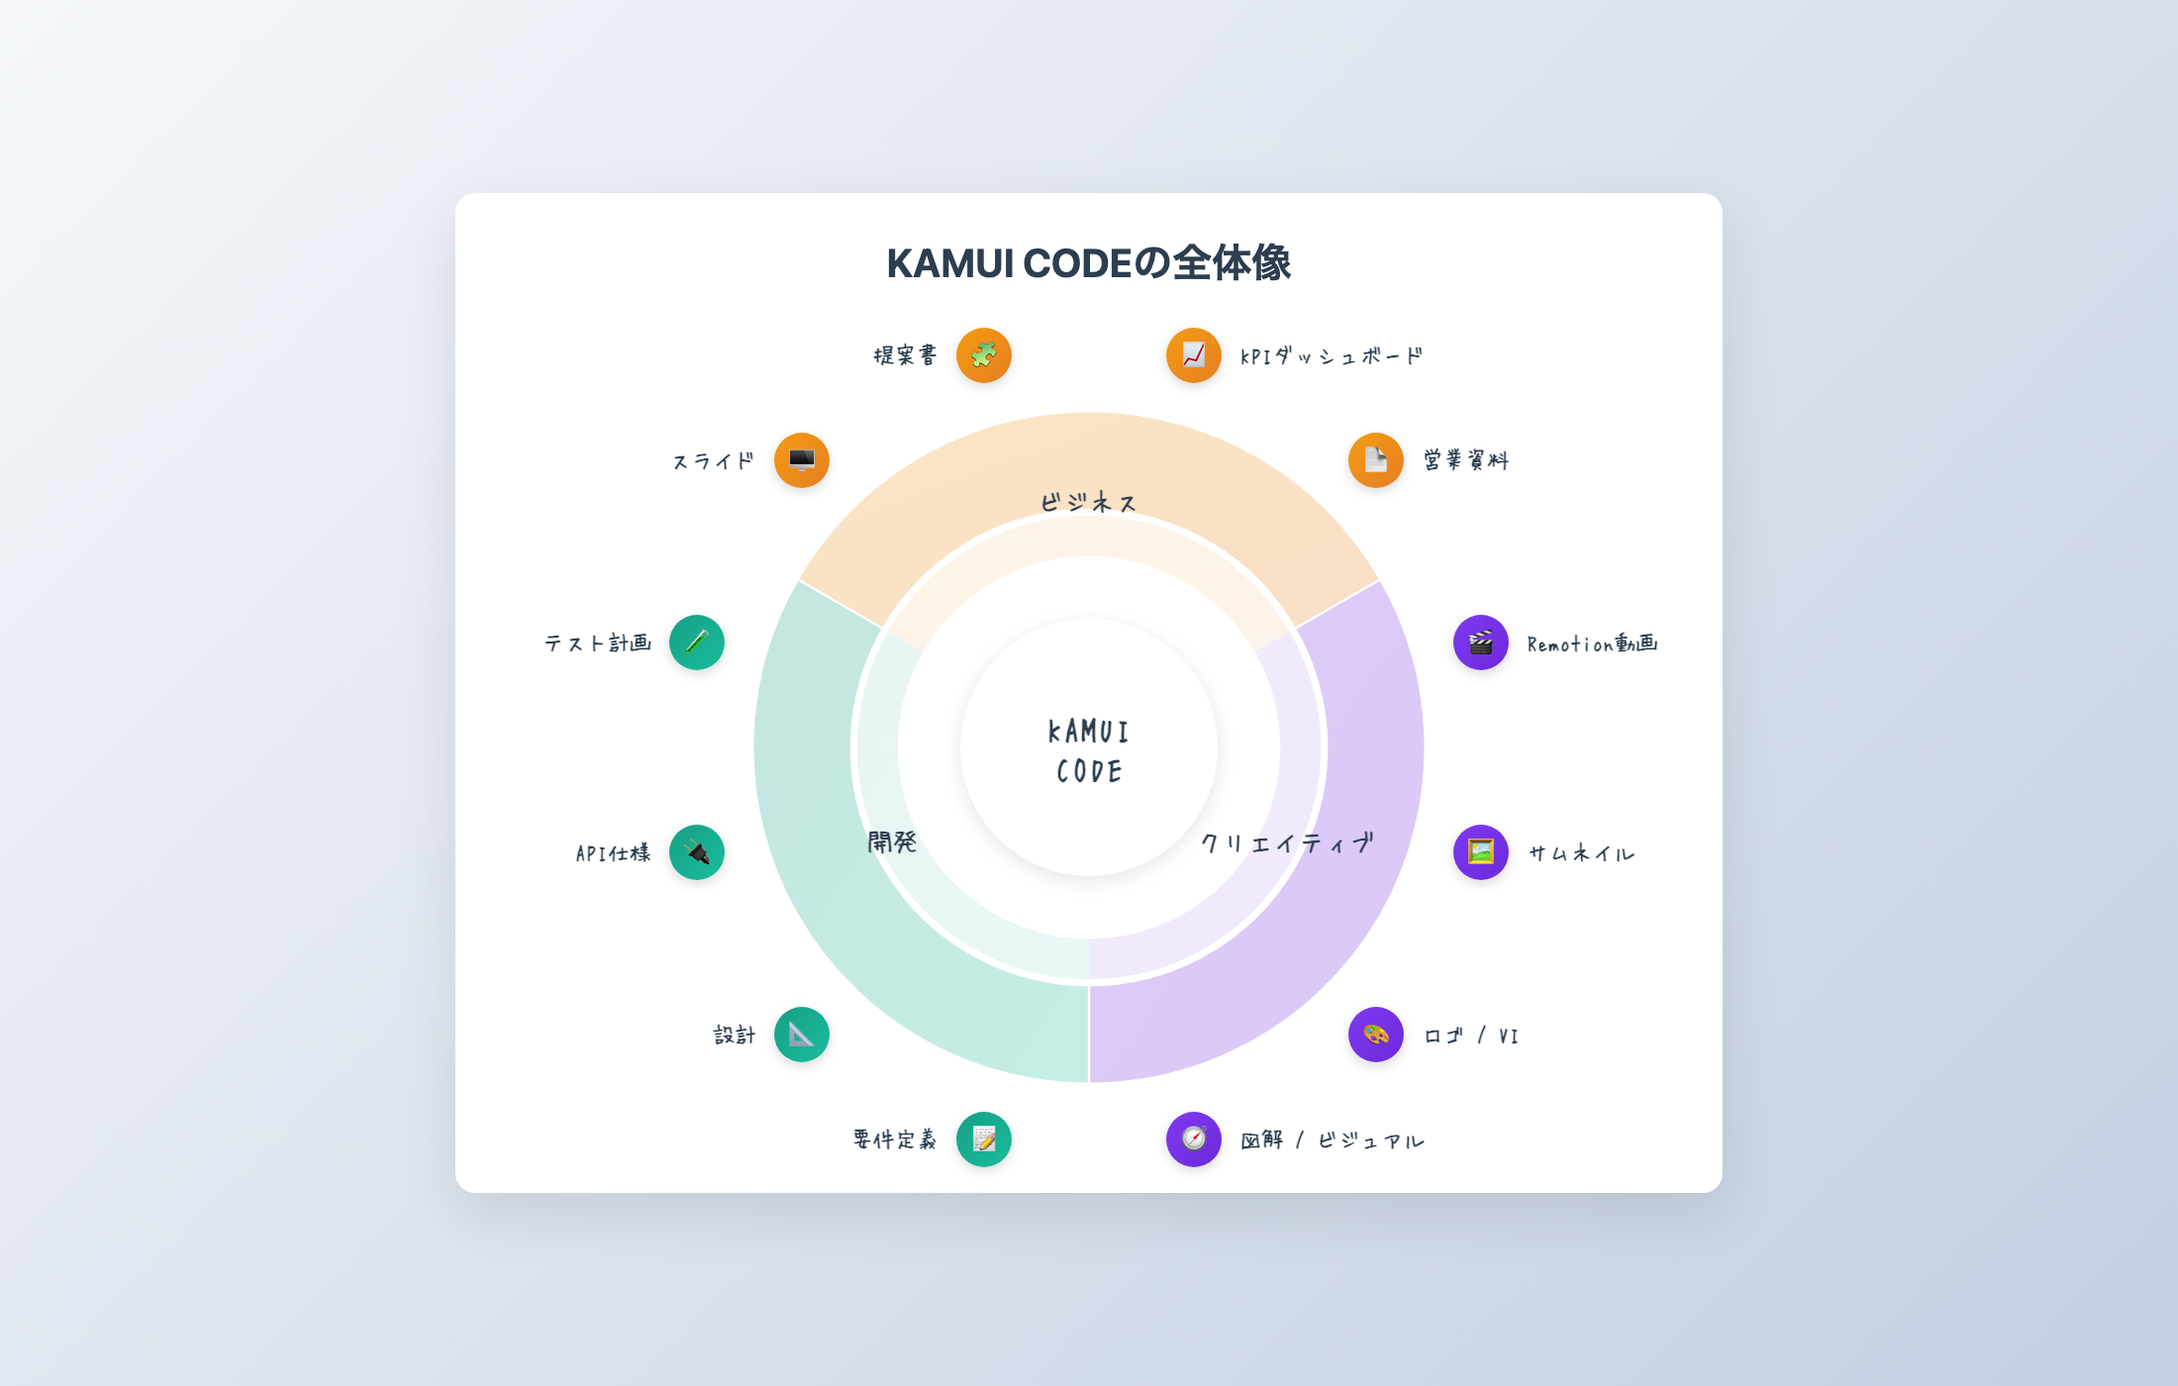
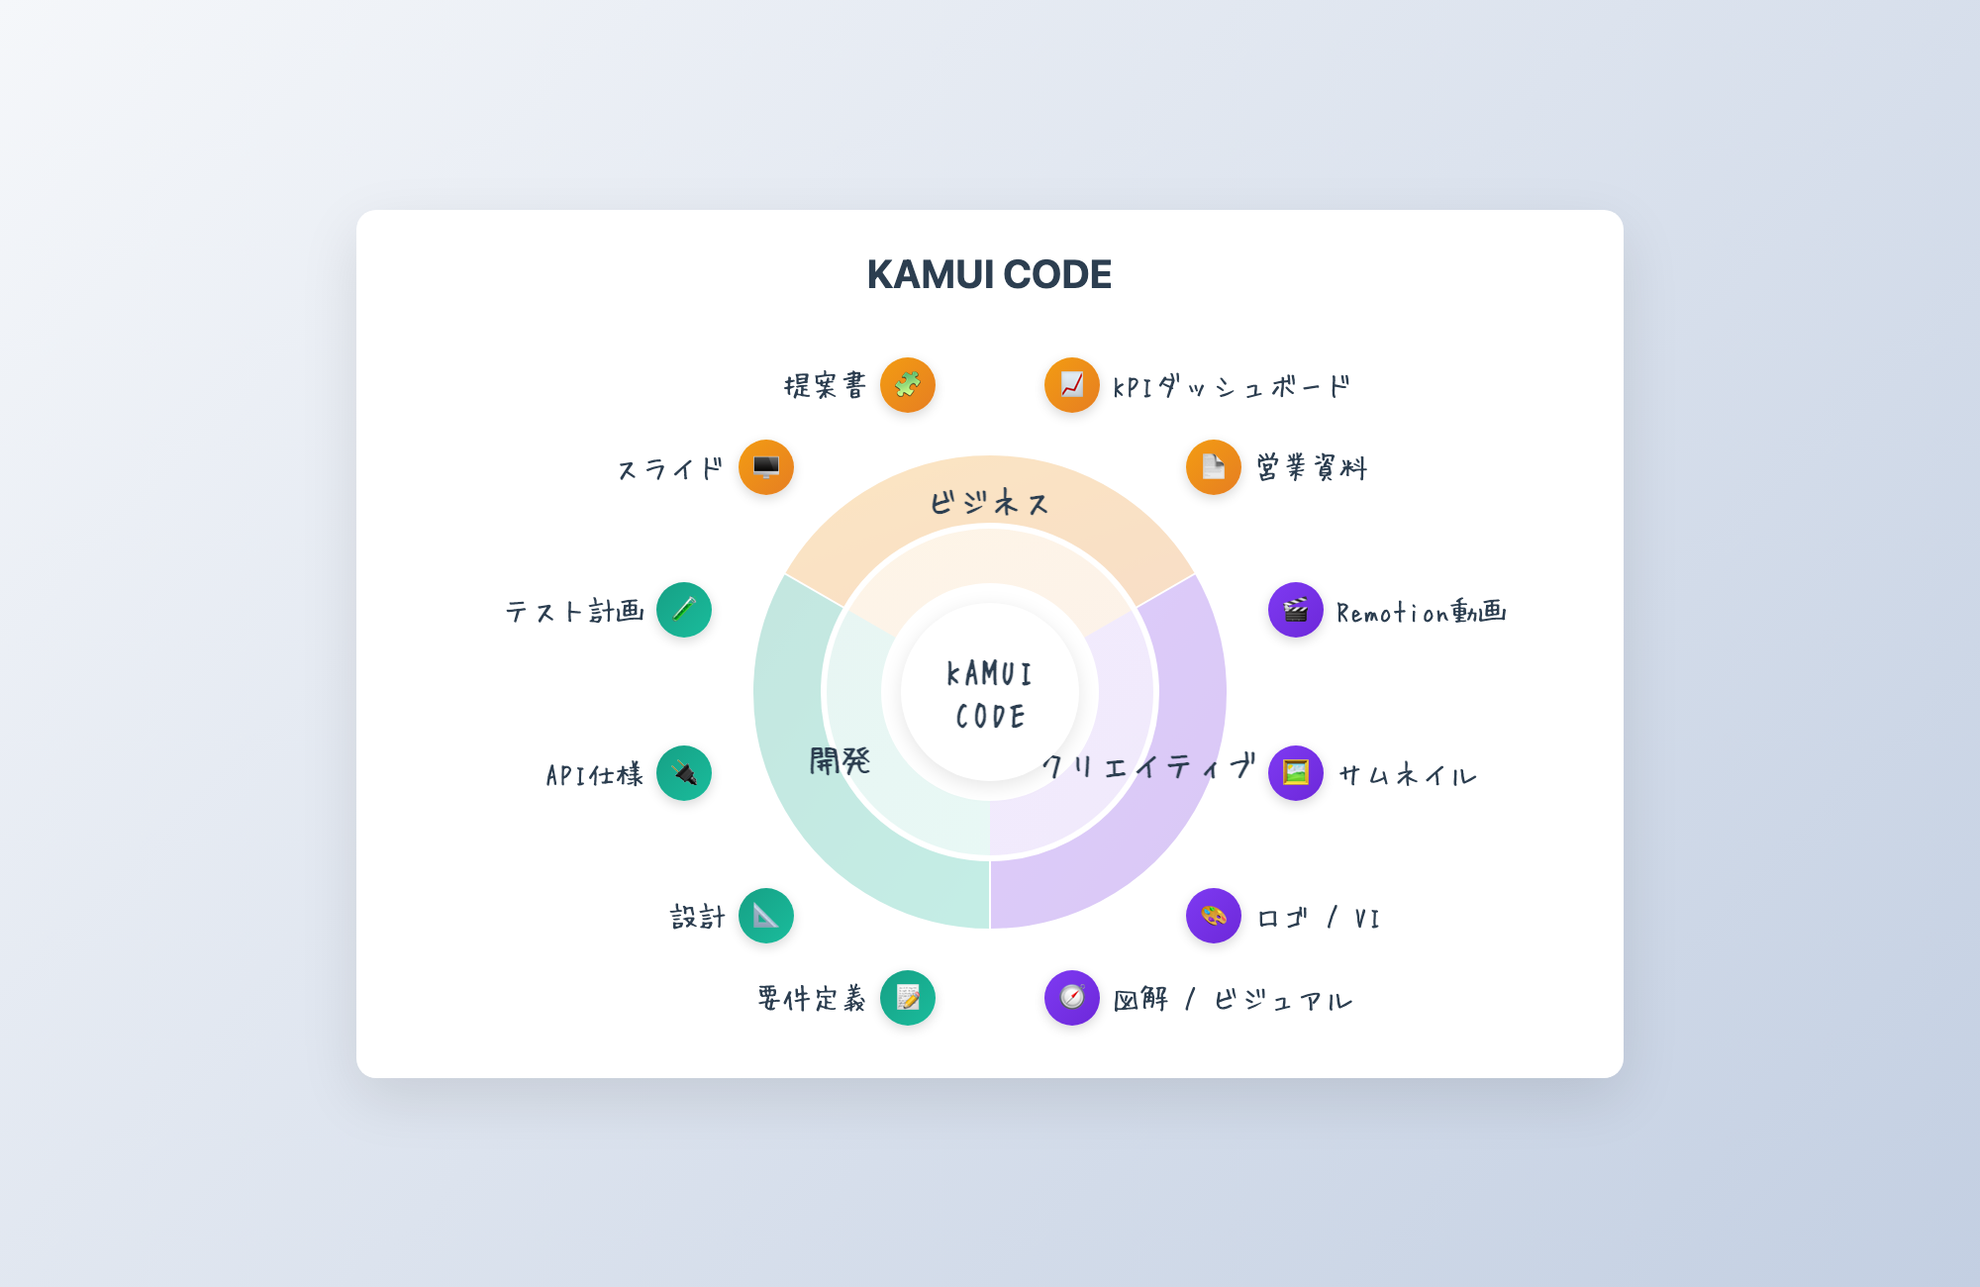
c

Changed region(s): [[0.155, 0.1231, 0.837, 0.8615], [0.465, 0.4923, 0.527, 0.5846]]

diff --git a/static/marketing-wheel_trapezoids.html b/static/marketing-wheel_trapezoids.html
@@ -1,0 +1,170 @@
+<!DOCTYPE html>
+<html lang="ja">
+<head>
+  <meta charset="UTF-8" />
+  <meta name="viewport" content="width=device-width, initial-scale=1.0" />
+  <title>KAMUI CODE トップ円＋台形スタック</title>
+  <style>
+    * { margin: 0; padding: 0; box-sizing: border-box; }
+    @font-face { font-family: 'HuiFont'; src: url('fonts/hui/HuiFont.woff2') format('woff2'), url('fonts/hui/HuiFont.ttf') format('truetype'); font-display: swap; }
+    :root { --hand: 'HuiFont', 'Yuji Syuku', 'Hachi Maru Pop', 'Noto Sans JP', cursive, sans-serif; }
+    body { font-family: -apple-system,BlinkMacSystemFont,'Segoe UI',Roboto,'Helvetica Neue',Arial,sans-serif; background: linear-gradient(135deg,#f5f7fa 0%,#c3cfe2 100%); min-height: 100vh; display: flex; justify-content: center; align-items: flex-start; padding: 24px; }
+    .container { background: #fff; border-radius: 20px; padding: 28px 32px; box-shadow: 0 20px 60px rgba(0,0,0,0.1); width: 100%; max-width: 1600px; }
+    h1 { text-align: center; font-size: 2.2em; margin-bottom: 8px; color: #2c3e50; font-weight: 800; font-family: var(--hand); }
+    .top-wheel { display: flex; justify-content: center; margin-top: 8px; }
+    .wheel { width: 1050px; height: 160px; position: relative; overflow: visible; }
+    .stack { display: flex; justify-content: center; margin-top: 2px; }
+    .stack-svg { width: 700px; height: 780px; display: block; }
+    /* wheel center */
+    .center-text { font-family: var(--hand); font-size: 1.6em; color: #2c3e50; font-weight: 900; letter-spacing: 0.6px; text-align: center; }
+  </style>
+</head>
+<body>
+  <div class="container">
+    <h1>KAMUI CODE</h1>
+
+    <div class="top-wheel">
+      <div class="wheel">
+        <svg viewBox="0 0 1050 160" class="wheel-svg" xmlns="http://www.w3.org/2000/svg">
+          <defs>
+            <linearGradient id="orangeGrad" x1="0%" y1="0%" x2="100%" y2="100%">
+              <stop offset="0%" style="stop-color:#f39c12" />
+              <stop offset="100%" style="stop-color:#e67e22" />
+            </linearGradient>
+            <linearGradient id="purpleGrad" x1="0%" y1="0%" x2="100%" y2="100%">
+              <stop offset="0%" style="stop-color:#7e3af2" />
+              <stop offset="100%" style="stop-color:#6d28d9" />
+            </linearGradient>
+            <linearGradient id="tealGrad" x1="0%" y1="0%" x2="100%" y2="100%">
+              <stop offset="0%" style="stop-color:#16a085" />
+              <stop offset="100%" style="stop-color:#1abc9c" />
+            </linearGradient>
+            <!-- Ring/annulus mask: show area between outer and inner ellipses -->
+            <mask id="ringMask">
+              <rect x="0" y="0" width="1050" height="160" fill="black" />
+              <!-- Visible area (white) -->
+              <ellipse cx="525" cy="80" rx="510" ry="60" fill="white" />
+              <!-- Cut inner hole (black) -->
+              <ellipse cx="525" cy="80" rx="300" ry="36" fill="black" />
+            </mask>
+            <filter id="ringShadow" x="-50%" y="-50%" width="200%" height="200%">
+              <feDropShadow dx="0" dy="2" stdDeviation="3" flood-color="#000" flood-opacity="0.18"/>
+            </filter>
+          </defs>
+          <g id="ringSide"></g>
+        </svg>
+        <!-- side view has text labels inside each segment instead of center circle -->
+      </div>
+    </div>
+
+    <div class="stack">
+      <svg class="stack-svg" viewBox="0 0 1050 700" xmlns="http://www.w3.org/2000/svg">
+        <defs>
+          <filter id="softShadow" x="-50%" y="-50%" width="200%" height="200%">
+            <feDropShadow dx="0" dy="4" stdDeviation="6" flood-color="#000" flood-opacity="0.18"/>
+          </filter>
+        </defs>
+        <g id="traps" transform="translate(525,8)"></g>
+      </svg>
+    </div>
+  </div>
+
+  <script>
+    // Side-view capsule with 3 segments
+    // Side-view of a ring (annulus) with 3 colored segments clipped into the band
+    const ring = document.getElementById('ringSide');
+    const OUT_RX = 340, OUT_RY = 60, IN_RX = 200, IN_RY = 36; // width wider, height same (fits 1050 viewBox)
+    const CX = 525, CY = 80; // center of 1050-wide viewBox
+    const segDefs = [
+      { id:'biz', label:'ビジネス',     color:'url(#orangeGrad)', a0: -150, a1: -30 },   // 上
+      { id:'cre', label:'クリエイティブ', color:'url(#purpleGrad)', a0:  -30, a1:  90 },  // 右下
+      { id:'dev', label:'開発',         color:'url(#tealGrad)',   a0:   90, a1: 210 },  // 左下
+    ];
+    const toRad = d => d*Math.PI/180;
+    function ellipsePoint(rx,ry,ang){
+      return { x: CX + rx*Math.cos(toRad(ang)), y: CY + ry*Math.sin(toRad(ang)) };
+    }
+    function sectorPath(a0,a1){
+      const step = 6; // degrees
+      const ptsOuter = [];
+      for(let a=a0;a<=a1;a+=step){ ptsOuter.push(ellipsePoint(OUT_RX,OUT_RY,a)); }
+      ptsOuter.push(ellipsePoint(OUT_RX,OUT_RY,a1));
+      const ptsInner = [];
+      for(let a=a1;a>=a0;a-=step){ ptsInner.push(ellipsePoint(IN_RX,IN_RY,a)); }
+      ptsInner.push(ellipsePoint(IN_RX,IN_RY,a0));
+      const all = ptsOuter.concat(ptsInner);
+      return 'M '+all.map(p=>`${p.x},${p.y}`).join(' L ')+' Z';
+    }
+    // draw colored ring sectors
+    segDefs.forEach(s=>{
+      const path = document.createElementNS('http://www.w3.org/2000/svg','path');
+      path.setAttribute('d', sectorPath(s.a0, s.a1));
+      path.setAttribute('fill', s.color);
+      path.setAttribute('opacity','0.35');
+      path.setAttribute('stroke','white'); path.setAttribute('stroke-width','2');
+      ring.appendChild(path);
+    });
+    // edges for definition and shine
+    const outer = document.createElementNS('http://www.w3.org/2000/svg','ellipse');
+    outer.setAttribute('cx',CX); outer.setAttribute('cy',CY); outer.setAttribute('rx', OUT_RX); outer.setAttribute('ry', OUT_RY);
+    outer.setAttribute('fill','transparent'); outer.setAttribute('stroke','#dfe3ea'); outer.setAttribute('stroke-width','1.5'); outer.setAttribute('filter','url(#ringShadow)');
+    ring.appendChild(outer);
+    const inner = document.createElementNS('http://www.w3.org/2000/svg','ellipse');
+    inner.setAttribute('cx',CX); inner.setAttribute('cy',CY); inner.setAttribute('rx', IN_RX); inner.setAttribute('ry', IN_RY);
+    inner.setAttribute('fill','white'); inner.setAttribute('stroke','white'); inner.setAttribute('stroke-width','2');
+    ring.appendChild(inner);
+    // labels at sector mid-angles
+    segDefs.forEach(s=>{
+      const mid = (s.a0 + s.a1)/2;
+      const p = ellipsePoint( (IN_RX+OUT_RX)/2, (IN_RY+OUT_RY)/2, mid);
+      const t=document.createElementNS('http://www.w3.org/2000/svg','text');
+      t.setAttribute('x', p.x);
+      t.setAttribute('y', p.y+4);
+      t.setAttribute('text-anchor','middle'); t.setAttribute('dominant-baseline','middle');
+      t.setAttribute('font-family','HuiFont, var(--hand)'); t.setAttribute('fill','#2c3e50');
+      t.setAttribute('font-weight', s.id==='cre' ? '900' : '800');
+      t.setAttribute('font-size', s.id==='cre' ? '28' : '22');
+      t.textContent = s.label; ring.appendChild(t);
+    });
+
+    // Frustum-like stack (台形の回転体: 立体的な短い円台を下方向に積層)
+    const traps = document.getElementById('traps');
+    function frustum(g, rxTop, rxBottom, h, fill){
+      const rz = Math.max(6, Math.min(rxTop, rxBottom) * 0.28); // 楕円の縦半径（遠近感）
+      const group = document.createElementNS('http://www.w3.org/2000/svg','g');
+      // 上面（ハイライト）
+      const top = document.createElementNS('http://www.w3.org/2000/svg','ellipse');
+      top.setAttribute('cx','0'); top.setAttribute('cy','0'); top.setAttribute('rx', rxTop); top.setAttribute('ry', rz);
+      top.setAttribute('fill','white'); top.setAttribute('fill-opacity','0.85'); top.setAttribute('stroke','#e8e8e8'); top.setAttribute('stroke-width','1');
+      // 側面（グラデーション）
+      const side = document.createElementNS('http://www.w3.org/2000/svg','path');
+      const t = rxTop, b = rxBottom; const y0 = 0, y1 = h;
+      const d = `M ${-t},${y0} L ${t},${y0} C ${t*0.85},${y0+h*0.15} ${b*0.85},${y1-h*0.15} ${b},${y1} L ${-b},${y1} C ${-b*0.85},${y1-h*0.15} ${-t*0.85},${y0+h*0.15} ${-t},${y0} Z`;
+      side.setAttribute('d', d);
+      side.setAttribute('fill', fill);
+      side.setAttribute('opacity','0.22');
+      side.setAttribute('filter','url(#softShadow)');
+      // 下面（影）
+      const bot = document.createElementNS('http://www.w3.org/2000/svg','ellipse');
+      bot.setAttribute('cx','0'); bot.setAttribute('cy', h);
+      bot.setAttribute('rx', rxBottom); bot.setAttribute('ry', rz*1.05);
+      bot.setAttribute('fill','#000'); bot.setAttribute('fill-opacity','0.06');
+      // 組み立て
+      group.appendChild(bot); // 影を奥に
+      group.appendChild(side);
+      group.appendChild(top);
+      g.appendChild(group);
+      return group;
+    }
+    const N=10, startRxTop=240, startRxBot=315, step=8, FR_H=28, GAP=12; // restore larger width (x1.5 of 160/210)
+    const cols=['url(#purpleGrad)','url(#tealGrad)','url(#orangeGrad)'];
+    for(let i=0;i<N;i++){
+      const rxT = Math.max(80, startRxTop - i*step);
+      const rxB = Math.max(110, startRxBot - i*step);
+      const y = i*(FR_H+GAP) + 10;
+      const g = frustum(traps, rxT, rxB, FR_H, cols[i%cols.length]);
+      g.setAttribute('transform', `translate(0,${y})`);
+    }
+  </script>
+</body>
+</html>

diff --git a/static/marketing-wheel.html b/static/marketing-wheel.html
@@ -28,31 +28,32 @@
             background: linear-gradient(135deg, #f5f7fa 0%, #c3cfe2 100%);
             min-height: 100vh; display: flex; justify-content: center; align-items: center; padding: 20px;
         }
-        .container { background: #fff; border-radius: 20px; padding: 48px; box-shadow: 0 20px 60px rgba(0,0,0,0.1); max-width: 1440px; width: 100%; }
+        .container { background: #fff; border-radius: 20px; padding: 40px; box-shadow: 0 20px 60px rgba(0,0,0,0.1); max-width: 1280px; width: 100%; }
         .header { text-align: center; margin-bottom: 50px; }
-        h1 { font-size: 3.4em; color: #2c3e50; margin-bottom: 10px; font-weight: 800; }
+        h1 { font-size: 2.5em; color: #2c3e50; margin-bottom: 10px; font-weight: 700; }
         .subtitle { color: #7f8c8d; font-size: 1.1em; }
 
-        .wheel-container { position: relative; width: 1000px; height: 1000px; margin: 0 auto; }
+        .wheel-container { position: relative; width: 700px; height: 700px; margin: 0 auto; }
         .wheel-svg { width: 100%; height: 100%; display: block; }
 
         .center-circle {
             position: absolute; top: 50%; left: 50%; transform: translate(-50%, -50%);
-            width: 280px; height: 280px; background: #fff; border-radius: 50%; z-index: 10; display: flex; align-items: center; justify-content: center;
+            width: 180px; height: 180px; background: #fff; border-radius: 50%; z-index: 10; display: flex; align-items: center; justify-content: center;
             box-shadow: 0 5px 20px rgba(0,0,0,0.1);
         }
-        .center-text { text-align: center; color: #2c3e50; font-size: 2.6em; font-weight: 900; line-height: 1.2; letter-spacing: 0.8px; font-family: var(--handwriting-font); }
+        .center-text { text-align: center; color: #2c3e50; font-size: 2.2em; font-weight: 900; line-height: 1.2; letter-spacing: 0.8px; font-family: var(--handwriting-font); }
 
         /* Anchor at the exact polar point so the icon center sits on the circle */
         .strategy-anchor { position: absolute; width: 0; height: 0; }
         .strategy-icon { position: absolute; left: 0; top: 50%; transform: translate(-50%, -50%); }
         .strategy-label { position: absolute; top: 50%; color: #2c3e50; white-space: nowrap; writing-mode: horizontal-tb; display: inline-block; line-height: 1; }
-        .strategy-label.right { left: 0; transform: translate(calc(28px + 22px), -50%); text-align: left; }
-        /* place the label so its RIGHT edge clears the icon by 22px */
-        .strategy-label.left  { left: 0; transform: translate(calc(-28px - 22px), -50%) translateX(-100%); text-align: right; }
+        .strategy-label.right { left: 0; transform: translate(calc(28px + 12px), -50%); text-align: left; }
+        /* place the label so its RIGHT edge clears the icon by 12px */
+        .strategy-label.left  { left: 0; transform: translate(calc(-28px - 12px), -50%) translateX(-100%); text-align: right; }
 
-        .icon-circle { width: 68px; height: 68px; border-radius: 50%; display: flex; align-items: center; justify-content: center; color: #fff; font-size: 1.9em; box-shadow: 0 4px 12px rgba(0,0,0,0.15); }
-        .strategy-text { font-size: 1.6em; color: #2c3e50; font-weight: 900; line-height: 1.15; max-width: 320px; font-family: var(--handwriting-font); }
+        .icon-circle { width: 56px; height: 56px; border-radius: 50%; display: flex; align-items: center; justify-content: center; color: #fff; font-size: 1.6em; box-shadow: 0 4px 12px rgba(0,0,0,0.15); }
+        /* 2倍へ（元0.9em→1.8em） */
+        .strategy-text { font-size: 1.8em; color: #2c3e50; font-weight: 500; line-height: 1.25; max-width: 160px; font-family: var(--handwriting-font); }
 
         /* SVG category label style */
         .cat-label { font-family: var(--handwriting-font); }
@@ -76,7 +77,7 @@
 <body>
     <div class="container">
         <div class="header">
-            <h1>KAMUI CODEの全体像</h1>
+            <h1>KAMUI CODE</h1>
         </div>
 
         <div class="wheel-container">
@@ -111,8 +112,8 @@
     </div>
 
     <script>
-        const OUTER_R = 290;
-        const INNER_R = 205;
+        const OUTER_R = 240;
+        const INNER_R = 170;
         const CAT_SPAN = 120; // degrees per category
 
         function deg2rad(d){ return (d * Math.PI) / 180; }
@@ -150,8 +151,8 @@
         });
 
         // Inner category ring labels
-        const CAT_INNER = 165; // larger center
-        const CAT_OUTER = 200;
+        const CAT_INNER = 110;
+        const CAT_OUTER = 165;
         categories.forEach((c) => {
             const a0 = c.center - CAT_SPAN/2;
             const a1 = c.center + CAT_SPAN/2;
@@ -164,21 +165,26 @@
             p.setAttribute('opacity', '0.10');
             gCat.appendChild(p);
 
-            const labelPos = polar(CAT_OUTER - 4, mid);
+            const labelPos = polar((c.key === 'cre') ? (CAT_OUTER + 18) : (CAT_OUTER + 10), mid);
             const t1 = document.createElementNS('http://www.w3.org/2000/svg','text');
             t1.setAttribute('class','cat-label');
+            t1.setAttribute('data-cat', c.key);
             t1.setAttribute('x', labelPos.x);
             t1.setAttribute('y', labelPos.y - 12);
             t1.setAttribute('text-anchor', 'middle');
             t1.setAttribute('dominant-baseline', 'middle');
             t1.setAttribute('fill', '#2c3e50');
-            t1.setAttribute('font-weight', '900');
-            t1.setAttribute('font-size', '26');
+            t1.setAttribute('font-weight', '700');
+            t1.setAttribute('font-size', '32');
             t1.textContent = c.name;
             gCat.appendChild(t1);
 
             // sub label removed by request (no secondary text)
         });
+
+        // Bring クリエイティブ label to the very front
+        const creative = gCat.querySelector('text.cat-label[data-cat="cre"]');
+        if (creative) gCat.appendChild(creative);
 
         // Examples: 4 per category (total 12), globally equal angles
         const examples = [
@@ -189,20 +195,19 @@
             { cat:'biz', icon:'📄', color:'orange', label:'営業資料' },
             // クリエイティブ（紫）
             { cat:'cre', icon:'🎬', color:'purple',   label:'Remotion動画' },
-            { cat:'cre', icon:'🖼', color:'purple',   label:'サムネイル' },
-            { cat:'cre', icon:'🎨', color:'purple',   label:'ロゴ / VI' },
+            { cat:'cre', icon:'🖼', color:'purple',   label:'研修用動画' },
+            { cat:'cre', icon:'🎨', color:'purple',   label:'絵コンテ' },
             { cat:'cre', icon:'🧭', color:'purple',   label:'図解 / ビジュアル' },
             // 開発
             { cat:'dev', icon:'📝', color:'teal',   label:'要件定義' },
-            { cat:'dev', icon:'📐', color:'teal',   label:'設計' },
-            { cat:'dev', icon:'🔌', color:'teal',   label:'API仕様' },
-            { cat:'dev', icon:'🧪', color:'teal',   label:'テスト計画' },
+            { cat:'dev', icon:'📐', color:'teal',   label:'アプリ画面' },
+            { cat:'dev', icon:'🔌', color:'teal',   label:'クラウド設計' },
+            { cat:'dev', icon:'🧪', color:'teal',   label:'UI・UX設計' },
         ];
 
         const wheel = document.querySelector('.wheel-container');
-        let baseRadius = OUTER_R + 150; // more room for much larger labels
+        let baseRadius = OUTER_R + 80; // original geometry
         const wheelCenter = { x: wheel.clientWidth/2, y: wheel.clientHeight/2 };
-        const scale = wheel.clientWidth / 700; // SVG viewBox scaling factor
 
         // cleanup anchors
         document.querySelectorAll('.strategy-anchor').forEach(n=>n.remove());
@@ -215,7 +220,7 @@
 
         examples.forEach((s, i) => {
             let angle = baseAngle + i * STEP_ALL;
-            const r = baseRadius * scale;
+            const r = baseRadius;
             const p = polar(r, angle);
             const left = wheelCenter.x + p.x;
             const top = wheelCenter.y + p.y;
